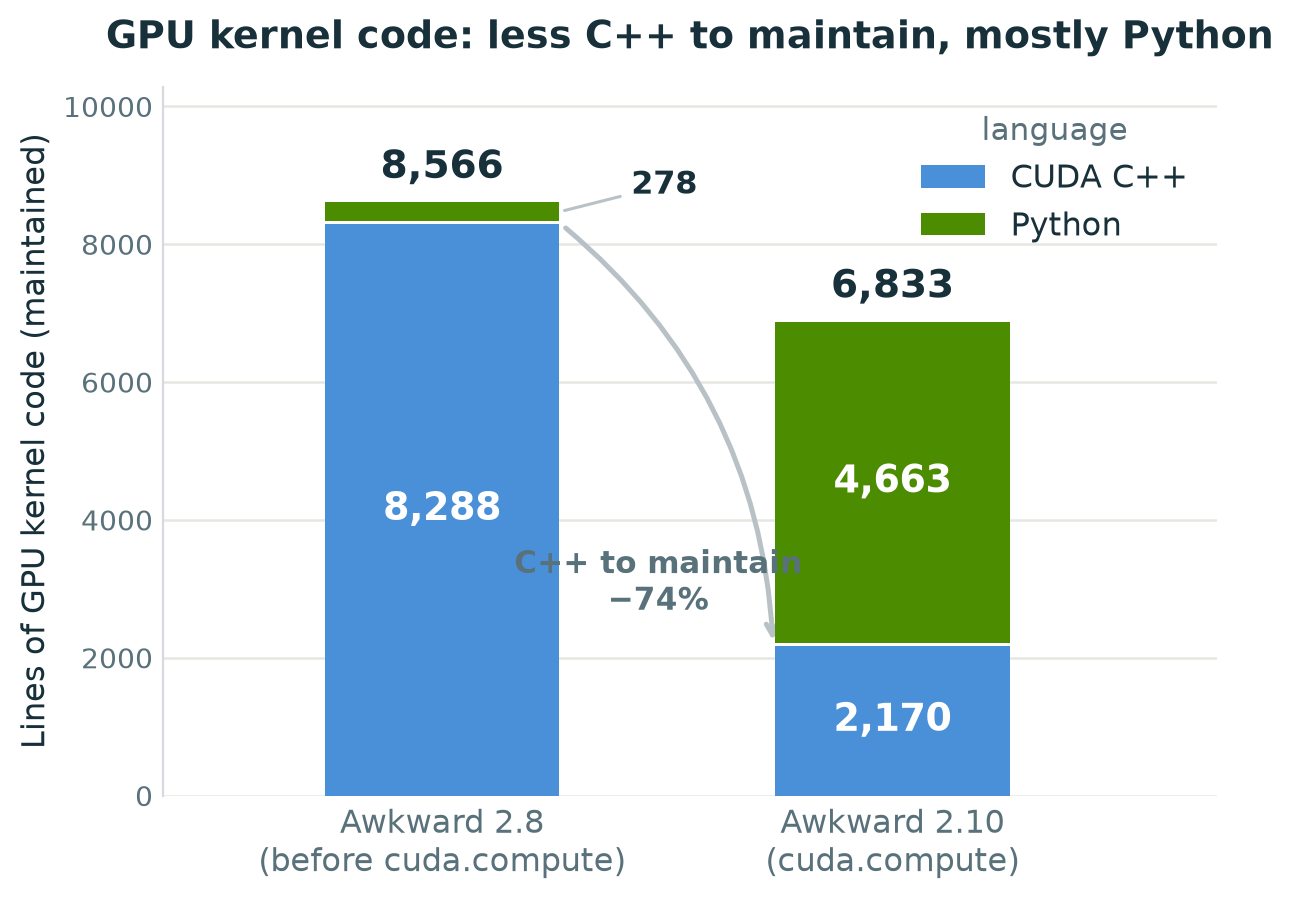
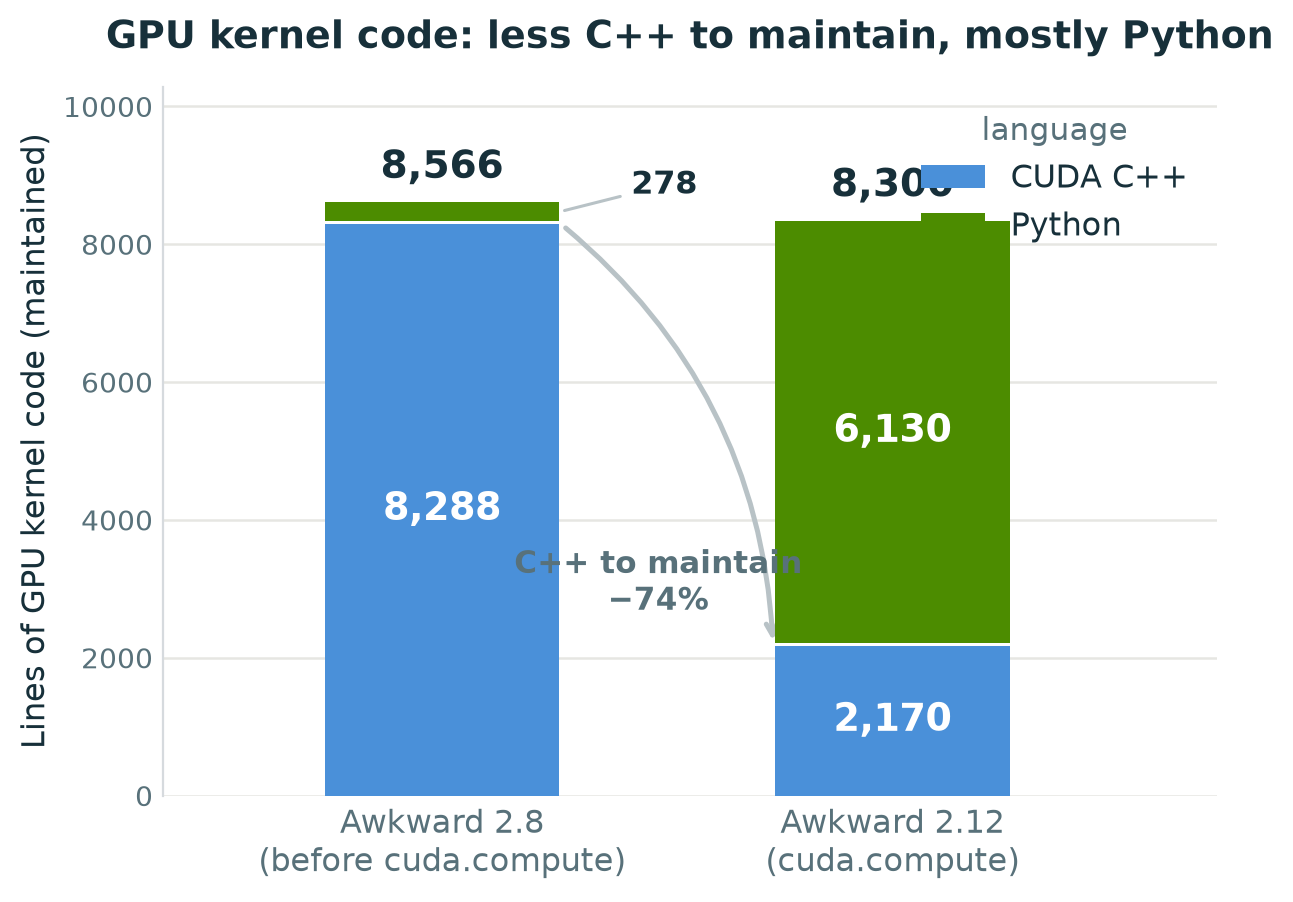
Update

Changed region(s): [[0.5878, 0.1863, 0.8043, 0.3725], [0.6497, 0.4346, 0.7425, 0.5588], [0.7425, 0.9002, 0.7734, 0.9313]]

diff --git a/papers/awkward_cuda_compute/main.md b/papers/awkward_cuda_compute/main.md
@@ -55,8 +55,11 @@ packaging and deploying the library. A further missed opportunity is *kernel
 fusion* (combining steps so intermediate results stay on-chip), which is key
 to obtaining good performance.
 
-This paper reports on a collaboration between the Awkward Array and
-NVIDIA teams to rebuild Awkward's GPU backend on `cuda.compute`, a
+Earlier accounts of this work have been presented to the physics-computing community
+[@awkward-chep2026], alongside a broader report on the surrounding CPU and GPU
+developments in the Awkward backend [@awkward-acat2025]. This paper reports on a
+collaboration between
+the Awkward Array and NVIDIA teams to rebuild Awkward's GPU backend on `cuda.compute`, a
 Python library that brings NVIDIA's CUDA C++ building blocks to
 Python. `cuda.compute` exposes the algorithms and iterators of the
 CUB and Thrust C++ libraries. These are the same battle-tested,
@@ -290,17 +293,21 @@ ordinary Python function that can be read and tested without a GPU.
 
 ### Replacing C++ with Python
 
-Counting the code that must actually be maintained, the GPU backend is now mostly Python
-({numref}`fig-loc`). We count a kernel's CUDA C++ as maintained only while it is still
-dispatched as CUDA C++, treat the generated kernel-signature table as machine-produced
-rather than hand-written, and include the shared `cuda_common.cu` scaffolding (625 lines,
-unchanged) on both sides. On that basis, Awkward 2.8.11 carried 8,288 lines of
-hand-written CUDA C++ against 278 lines of Python. In Awkward 2.10.0 the CUDA C++ still
-dispatched is 2,170 lines, a 74% reduction, while the `cuda.compute` implementations and
-their dispatch come to 4,663 lines of Python. A further 4,013 lines of superseded `.cu`
-files remain in the tree pending removal; they are dead weight rather than upkeep, which
-is why they are excluded. The CUDA C++ a contributor must read has fallen by nearly
-three-quarters, and what replaced it can be read and tested without a GPU.
+What changed is not the amount of GPU code so much as the language it is written in.
+Awkward 2.8.11 carried 8,288 lines of hand-written CUDA C++ against 278 lines of Python;
+Awkward 2.12.0 dispatches 2,170 lines of CUDA C++ alongside 6,130 lines of Python
+({numref}`fig-loc`). The total is very nearly the same. What fell by roughly
+three-quarters is the portion that requires CUDA expertise to touch.
+
+That distinction decides who can contribute, and a stated goal of the Awkward Array
+project is to let physicists and data analysts write high-performance code in Python
+without GPU expertise. Adding or fixing a kernel in the old backend meant understanding
+CUDA thread hierarchies, atomics and shared-memory behaviour, and reasoning about them at
+the same time as the ragged buffer arithmetic, in a language most of the library's users
+do not write. The new backend asks for a scalar operator in Python and a call to the
+appropriate primitive: the eight lines above. What CUDA C++ remains is confined to the
+structural kernels of {numref}`tbl-coverage`, so a contributor working on a reduction, a
+sort or a statistical operator need not encounter it at all.
 
 ```{figure} loc_comparison.png
 :label: fig-loc
@@ -308,9 +315,12 @@ three-quarters, and what replaced it can be read and tested without a GPU.
 :width: 47%
 
 GPU kernel code that must be maintained, by language and Awkward version, counted from
-the source of each release. Before `cuda.compute` the backend was almost entirely CUDA
-C++ (8,288 lines against 278 of Python); in Awkward 2.10.0 the C++ still dispatched has
-fallen 74% to 2,170 lines and the backend is mostly Python.
+the source of each release. A kernel's CUDA C++ counts as maintained only while it is
+still dispatched as CUDA C++; the generated kernel-signature table is excluded as
+machine-produced, and the shared `cuda_common.cu` scaffolding (625 lines, identical in
+both releases) is included on both sides. A further 4,013 lines of superseded `.cu` files
+remain in the 2.12.0 tree pending removal and are excluded as dead weight rather than
+upkeep.
 ```
 
 ## Results
@@ -318,8 +328,7 @@ fallen 74% to 2,170 lines and the backend is mostly Python.
 All GPU measurements reported below were taken on an NVIDIA RTX PRO 6000 Blackwell
 Server Edition (GB202, compute capability 12.0, 98 GB) with CUDA 13.2, against
 `cuda.compute` 1.1.0 and CuPy 14.1.1. Source-derived counts (kernel coverage and lines of
-code) are for the released Awkward 2.10.0; the end-to-end query benchmark builds Awkward
-from `main`, which carries migration work not yet in a release. Every benchmark below was
+code) are for the released Awkward 2.12.0. Every benchmark below was
 run twice, on independent machines of the same class and in independently built
 environments. All structural quantities (kernel counts, memory-operation counts,
 serialized-blob size) came out identical, and every timing agreed to within a few percent,
@@ -331,26 +340,32 @@ The migration of the GPU backend to `cuda.compute` is tracked publicly in the pr
 issue tracker [@awkward-issue-3793]. The figures below are counted from the released
 source rather than from the tracker: a kernel counts as migrated when the CUDA backend's
 dispatch table maps its name to a `cuda.compute` implementation. On that measure, Awkward
-2.10.0 routes 106 of its 133 GPU kernels (80%) through `cuda.compute`
+2.12.0 routes 109 of its 136 GPU kernels (80%) through `cuda.compute`
 ({numref}`tbl-coverage`), up from none in 2.8.11, which had 131 hand-written kernels.
 
-Every reduction (`sum`, `prod`, `min`, `max`, `argmin`, `argmax`, `count`) and the sort
-itself now run through `cuda.compute`, with no hand-written implementation remaining. The
-27 kernels still dispatched as CUDA C++ are structural rather than numerical: alongside a
-few supporting kernels that build groupings and sorting ranges, they are the jagged
-`getitem` paths
-(`ListArray_getitem_next_*`, `ListArray_getitem_jagged_*`), padding and validity checks,
-`RegularArray` combinations, and the `UnionArray` flatten/fill operations. These are the
-cases whose control flow depends on the ragged structure itself, and so map least
-naturally onto the segmented primitives; further migration work is in progress upstream.
+Every reduction (`sum`, `prod`, `min`, `max`, `argmin`, `argmax`, `count`) and both `sort`
+and `argsort` now run through `cuda.compute`, with no hand-written implementation
+remaining. `argsort` arrived most recently [@awkward-pr-4240] and completes the set of
+kernels a physics analysis needs, so an analysis of the kind benchmarked in
+{numref}`fig-adl` can now run end to end without touching a hand-written kernel. The same
+release also added `sumofsquares` and `sumofpowers` reducers, which give overflow-safe and
+numerically stable `ak.var`, `ak.std`, `ak.moment`, `ak.corr` and `ak.covar` on the GPU
+[@awkward-pr-4232].
+
+The 27 kernels still dispatched as CUDA C++ are structural rather than numerical:
+alongside a few supporting kernels that build groupings and sorting ranges, they are the
+jagged `getitem` paths (`ListArray_getitem_next_*`, `ListArray_getitem_jagged_*`), padding
+and validity checks, `RegularArray` combinations, and the `UnionArray` flatten/fill
+operations. These are the cases whose control flow depends on the ragged structure itself,
+and so map least naturally onto the segmented primitives.
 
 ```{table} GPU kernel coverage, counted from the dispatch table of each release. The reductions and sort run exclusively through cuda.compute; what remains in CUDA C++ is structural.
 :label: tbl-coverage
 
-| Category | 2.8.11 | 2.10.0 |
+| Category | 2.8.11 | 2.12.0 |
 |---|---|---|
-| GPU kernels with a CUDA implementation | 131 | 133 |
-| Running through `cuda.compute` | 0 | 106 (80%) |
+| GPU kernels with a CUDA implementation | 131 | 136 |
+| Running through `cuda.compute` | 0 | 109 (80%) |
 | Still dispatched as CUDA C++ | 131 | 27 |
 ```
 
@@ -406,13 +421,23 @@ compute stage is essentially zero; Q8 is omitted because the baseline fails at e
 size while the new backend runs it.
 ```
 
-The two categories scale in opposite directions. The backend substitutions improve with
-problem size, Q5 rising from 60x at 100k events to 422x at 1M and 3634x at 10M and Q6
-from 45x to 250x, the `cuda.compute` time remaining approximately constant while the
-hand-written implementation grows super-linearly. The fused rewrites decline, Q7 from 32x
-to 6.0x and Q4 from 5.9x to 3.3x, their benefit deriving from eliminated launch and
-allocation overhead, which is a diminishing fraction of the total as the data grow. Q3 lies between, at 14x to
-18x.
+The two categories scale in opposite directions, and the absolute times explain why. On
+Q5 the hand-written backend takes 3.07 s at 100k events, 29.8 s at 1M and 300 s at 10M: a
+hundredfold increase in data produces a ninety-eightfold increase in time, so its cost is
+simply proportional to the number of events. Over the same range `cuda.compute` takes
+51 ms, 71 ms and 83 ms, a factor of 1.6 for that same hundredfold increase. The
+hand-written implementation extracts a fixed amount of parallelism regardless of input
+size, so more events mean more sequential work; the composed primitives instead launch
+across the whole dataset at once. At these sizes the GPU is far from saturated, and the
+additional events are absorbed by threads that would otherwise have been idle rather than
+by additional elapsed time. The speedup therefore grows almost in proportion to the
+dataset, from 60x to 3634x. Q6 behaves the same way, 3.07 s to 312 s against 69 ms to
+1.25 s; its ratio climbs less steeply (45x to 250x) only because its `cuda.compute` time
+does grow appreciably with the data.
+
+The fused rewrites move the other way, Q7 declining from 32x to 6.0x and Q4 from 5.9x to
+3.3x, their benefit deriving from eliminated launch and allocation overhead, which is a
+diminishing fraction of the total as the data grow. Q3 lies between, at 14x to 18x.
 
 The new backend is also more robust. Q8, an `argmin` over jagged data containing empty
 sublists, fails on the hand-written backend at every event count, leaving the CUDA
@@ -450,17 +475,6 @@ faster with 3.2x lower peak memory [@awkward-pr-4056].
   `cuda.compute` provides, and the library performs the kernel fusion that would
   otherwise have to be written and maintained by hand.
 
-### Lowering the Barrier to Contribution
-
-A stated goal of the Awkward Array project is to let physics and data analysts write
-high-performance code in Python without GPU expertise. The hand-written backend
-required contributors to understand CUDA thread hierarchies, atomics, and
-shared-memory behavior to add or fix a kernel. The new backend asks only for a scalar
-operator written in Python and a call to the appropriate `cuda.compute` primitive.
-That the GPU code is now *pure Python* (readable, reviewable, and testable by the
-domain scientists who use the library) is as significant as any single performance
-number.
-
 ### Limitations
 
 `cuda.compute` is still maturing, and 17 of Awkward's structural kernels are implemented
@@ -476,10 +490,28 @@ the di-muon example. Removing that requirement is the subject of the next sectio
 
 ## Future Work
 
+### Fusing Across Operations
+
+Some of the most useful fusions can be performed today by recognising specific patterns,
+with no general machinery at all. A sum of squares is the clearest example:
+written as a reduction over a squaring map, it need never materialize the squared array,
+because the map folds into the reduction through a `TransformIterator`, exactly as in the
+`min_range` kernel described earlier. Awkward now ships `sumofsquares` and `sumofpowers` reducers
+built this way [@awkward-pr-4232], and the same treatment is being extended to a *centred*
+sum of squares so that `ak.var` and `ak.std` over the innermost axis become a single fused
+kernel rather than a mean pass followed by a subtraction and a second reduction
+[@awkward-pr-4256].
+
+The gain is not only the saved buffer. These are the statistical primitives an analysis
+actually calls, so fusing them removes an intermediate array and a second pass over memory
+from ordinary user code. Each pattern recognised this way is a step toward the general
+lazy layer described next, applied to a shape the library knows in advance rather than to
+a graph the analyst wrote.
+
 ### Lazy Evaluation and Whole-Expression Fusion
 
-The most significant direction under development is a lazy execution layer that performs
-the fusion automatically [@awkward-issue-4141; @awkward-pr-4173]. Wrapping an array with
+The general form of the same idea is a lazy execution layer that performs the fusion
+automatically, without needing to recognise the pattern in advance [@awkward-issue-4141; @awkward-pr-4173]. Wrapping an array with
 `ak.cuda.lazy` defers evaluation; operations build an expression graph rather than
 launching kernels; and a terminal `compute(fuse=True)` lowers a whole chain of
 element-wise operations into a single `cuda.compute` kernel:
@@ -500,9 +532,7 @@ than one consumer is computed once and shared, which yields common-subexpression
 elimination without a separate pass. And `fuse=False` runs the same graph through a
 per-operation interpreter with numerically identical results, so fusion is a fast path
 rather than a correctness dependency; anything the compiler cannot fuse (strings, indexed
-layouts, mixed backends) falls back to the eager path automatically. The decisions are
-inspectable through `fusion_stats()` and `visualize(fused=True)`, which report how many
-element-wise nodes collapsed into how many fused regions.
+layouts, mixed backends) falls back to the eager path automatically.
 
 The performance figures published with that work are substantial (up to roughly 90x on
 the GPU for a long element-wise chain, and 2x to 8x on the CPU), and the GPU speedup is
@@ -528,7 +558,7 @@ We have presented a collaboration between the Awkward Array and NVIDIA teams tha
 rebuilds Awkward's GPU backend on `cuda.compute`. The change replaces hand-written
 CUDA C++ kernels with compositions of Python-callable primitives drawn from CUB and
 Thrust, letting the library handle fusion and per-architecture tuning. Most of Awkward's
-GPU kernels, 106 of 133, now run through `cuda.compute` (every reduction and sort
+GPU kernels, 109 of 136, now run through `cuda.compute` (every reduction and sort
 exclusively so), the hand-written CUDA C++ still dispatched has fallen by 74%, and what
 remains in C++ is structural rather than numerical.
 
@@ -547,7 +577,7 @@ both the hardware and the problem.
 ## Acknowledgements
 
 This work was supported in part by NSF grants OAC-1450377, OAC-1836650,
-OAC-2103945, PHY-2121686, and PHY-2323298. The authors thank Maxym Naumchyk, who
+OAC-2103945, PHY-2121686, and PHY-2323298. The authors thank Maksym Naumchyk, who
 implemented much of the kernel migration described here, the `cuda.compute` and
 CUB/Thrust developers at NVIDIA, and the Scikit-HEP community.
 

diff --git a/presentations/slides/awkward-cuda-compute/marp/slides.md b/presentations/slides/awkward-cuda-compute/marp/slides.md
@@ -1148,7 +1148,7 @@ binary_transform(d_in1=muons1, d_in2=muons2,
 
 <!-- Thanks, Ashwin. So that's the tool — now let me show you what it's done for Awkward, and where we're taking it.
 
-The headline first: nearly all of Awkward's CUDA kernels have moved from hand-written CUDA C++ to pure Python. A hundred and fourteen already run on cuda.compute, and the remaining seventeen are implemented too. That's most of the library's GPU backend, rewritten in Python — and a lot of the credit for that goes to Maxym Naumchyk. -->
+The headline first: nearly all of Awkward's CUDA kernels have moved from hand-written CUDA C++ to pure Python. A hundred and fourteen already run on cuda.compute, and the remaining seventeen are implemented too. That's most of the library's GPU backend, rewritten in Python — and a lot of the credit for that goes to Maksym Naumchyk. -->
 
 ## Awkward Array: present and future
 
@@ -1165,7 +1165,7 @@ The headline first: nearly all of Awkward's CUDA kernels have moved from hand-wr
 - 114 kernels use **cuda.compute**
 - Remaining **17 kernels are already implemented**
 
-<div style="font-size: 20px; color: #4c8c00">Maxym Naumchyk</div>
+<div style="font-size: 20px; color: #4c8c00">Maksym Naumchyk</div>
 
 </div>
 </div>
